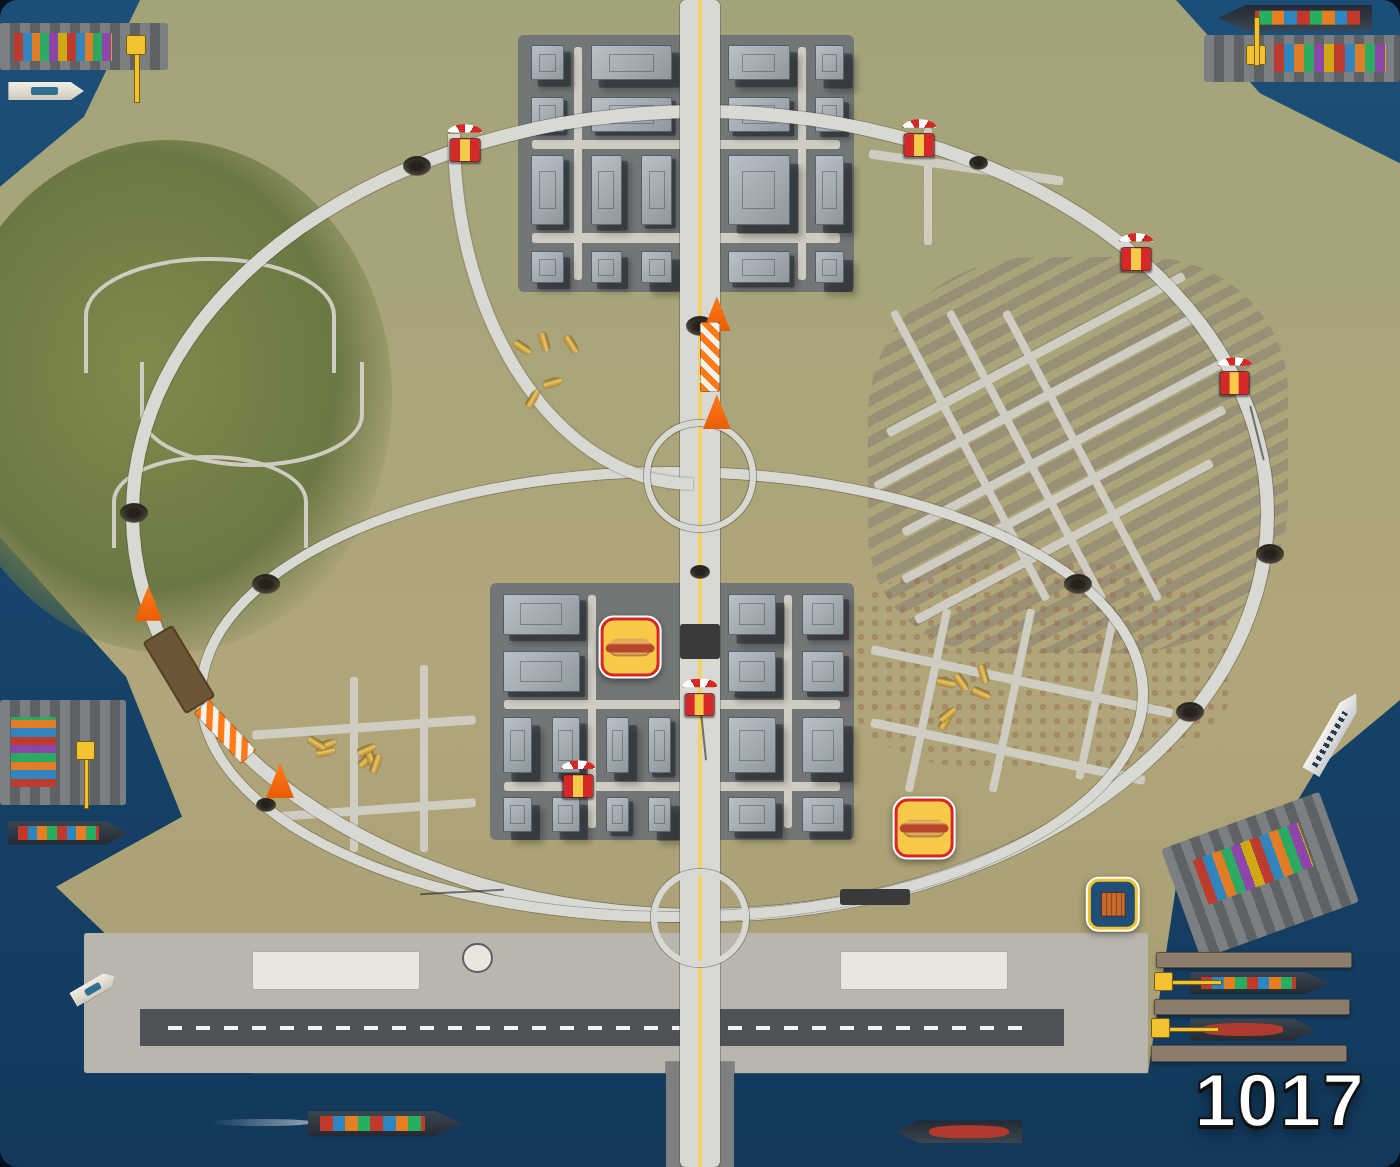
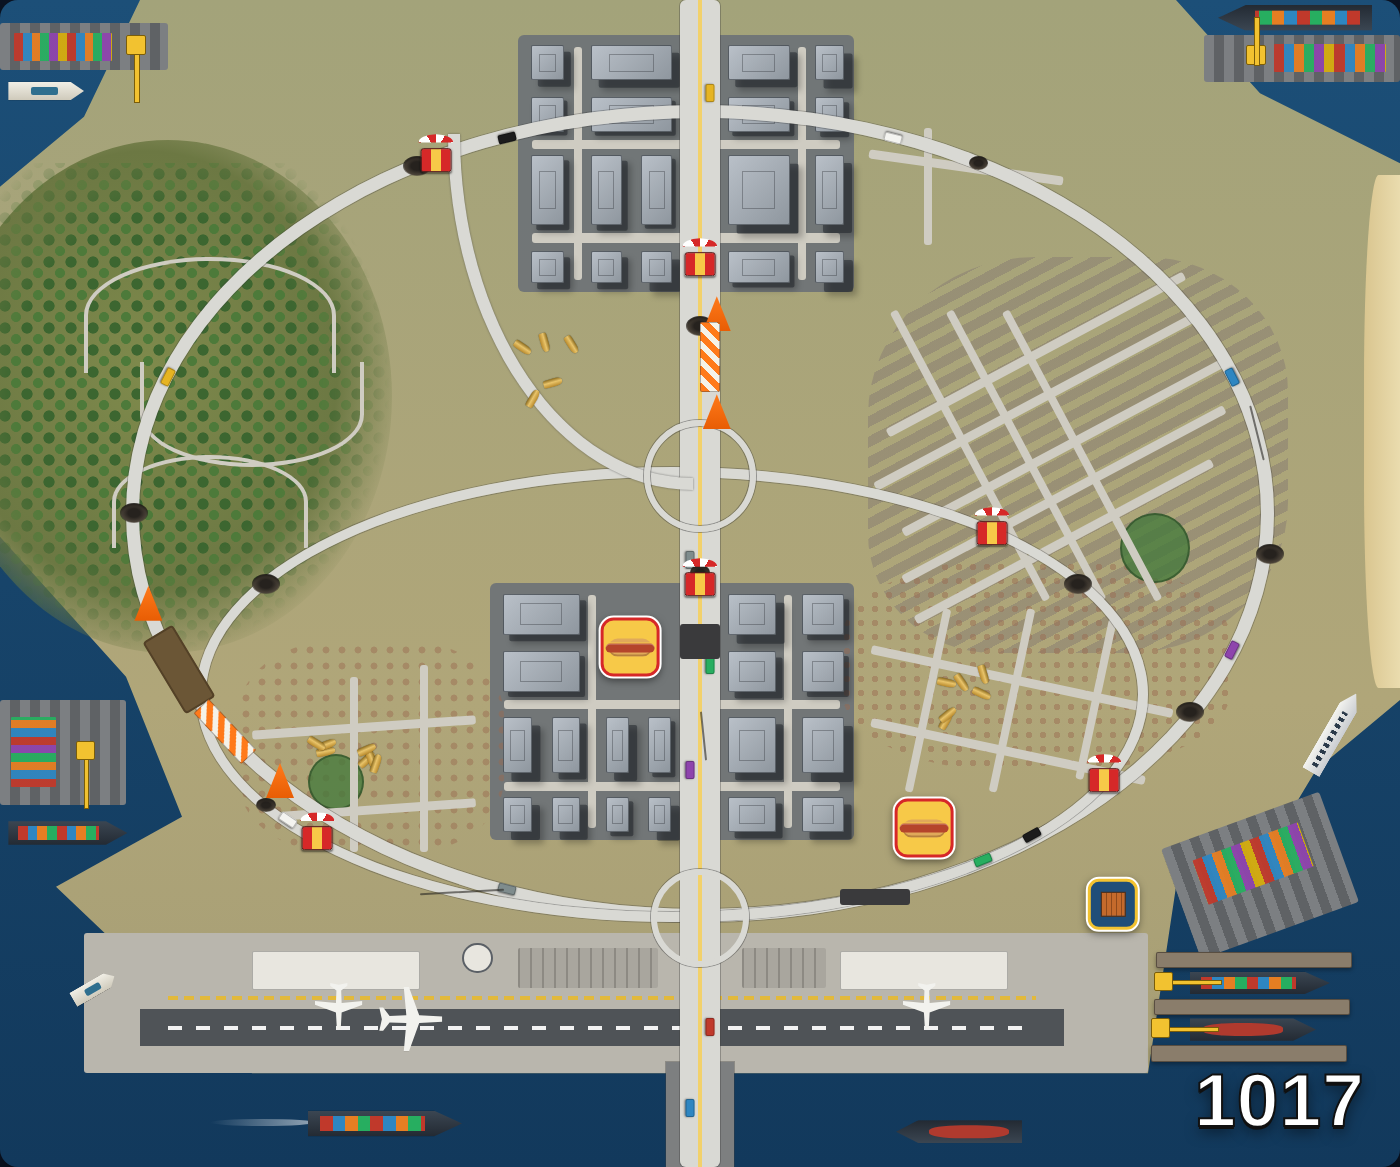
More detail on the 1017 inner city
Woods over the hill, two new parks (the east apartments and the south-west
streets), little houses in the south-west, a beach down the east coast, a
taxiway, terminal parking and three planes at the airport, and cars on the
Connector, the Perimeter and the Inner Loop.

Claude-Session: https://claude.ai/code/session_01FagBtygwPmHUod4bPZTnD1

diff --git a/1017-inner-city.html b/1017-inner-city.html
@@ -190,6 +190,62 @@
               border: 1px solid rgba(60,60,60,.35); }
   .terminal-w { left: 18%; width: 12%; }
   .terminal-e { left: 60%; width: 12%; }
+
+  /* ============================================================
+     MORE DETAIL — trees on the hill, parks, houses, the beach,
+     planes and parking at the airport, traffic on the roads.
+     ============================================================ */
+  .trees { position: absolute; left: -2%; top: 14%; width: 30%; height: 42%; z-index: 0; pointer-events: none;
+           background: radial-gradient(circle, #3c6630 34%, transparent 38%) 0 0 / 22px 22px,
+                       radial-gradient(circle, #4d7a3a 30%, transparent 34%) 11px 11px / 22px 22px;
+           -webkit-mask-image: radial-gradient(ellipse at 45% 45%, #000 45%, transparent 70%);
+                   mask-image: radial-gradient(ellipse at 45% 45%, #000 45%, transparent 70%); }   /* the wooded hill */
+  .houses-sw { position: absolute; left: 17%; top: 55%; width: 19%; height: 18%; opacity: .45;
+               background: radial-gradient(circle, #9a6a50 30%, transparent 32%) 0 0 / 16px 16px;
+               border-radius: 35%; }                                   /* little houses, south-west */
+  .park-e  { left: 80%; top: 44%; width: 5%; }                         /* a green in the apartments */
+  .park-sw { left: 22%; top: 64.6%; width: 4%; }                       /* the south-west playground */
+  .park { position: absolute; background: rgba(64,120,58,.75); border: 2px solid rgba(30,60,28,.5);
+          border-radius: 50%; aspect-ratio: 1; z-index: 0; }
+  .beach { position: absolute; left: 97.4%; top: 15%; width: 2.6%; height: 44%;
+           background: linear-gradient(90deg, #d9c58f, #eadcae); border-radius: 40% 0 0 40%; }  /* the east beach */
+
+  /* the airport: taxiway, parking, planes */
+  .taxiway { position: absolute; left: 12%; top: 85.4%; width: 62%; height: .35%; z-index: 1;
+             background: repeating-linear-gradient(90deg, #e2b93b 0 10px, transparent 10px 16px); }
+  .parking { position: absolute; top: 81.3%; height: 3.4%; z-index: 1; border-radius: 2px;
+             background: repeating-linear-gradient(90deg, #8d8a83 0 2px, #a9a69e 2px 12px); }
+  .parking-w { left: 37%; width: 10%; }
+  .parking-e { left: 53%; width: 6%; }
+  .plane { position: absolute; width: 3.4%; aspect-ratio: 1; z-index: 3; background: #f2f2ee;
+           clip-path: polygon(46% 0, 54% 0, 56% 36%, 100% 52%, 100% 60%, 56% 56%, 55% 82%, 68% 92%, 68% 98%,
+                              50% 94%, 32% 98%, 32% 92%, 45% 82%, 44% 56%, 0 60%, 0 52%, 44% 36%);
+           filter: drop-shadow(0 1px 1px rgba(0,0,0,.4)); }
+  .plane-1 { left: 22.5%; top: 84.2%; transform: rotate(180deg); }   /* at the west terminal */
+  .plane-2 { left: 64.5%; top: 84.2%; transform: rotate(180deg); }   /* at the east terminal */
+  .plane-3 { left: 27%;   top: 84.6%; width: 4.6%; transform: rotate(90deg); }   /* rolling down the runway */
+
+  /* traffic */
+  .car { position: absolute; width: 1.3%; aspect-ratio: 2; z-index: 4; border-radius: 2px;
+         box-shadow: 0 1px 2px rgba(0,0,0,.5), inset 0 0 0 1px rgba(0,0,0,.25); }
+  .car-1 { left: 88.0%; top: 32.3%; transform: translate(-50%, -50%) rotate(-117deg); background: #2e86c1; }   /* Perimeter */
+  .car-2 { left: 63.8%; top: 11.8%; transform: translate(-50%, -50%) rotate(-166deg); background: #f4f4f0; }   /* Perimeter */
+  .car-3 { left: 36.2%; top: 11.8%; transform: translate(-50%, -50%) rotate(166deg); background: #1c1c1c; }   /* Perimeter */
+  .car-4 { left: 12.0%; top: 32.3%; transform: translate(-50%, -50%) rotate(117deg); background: #e6b422; }   /* Perimeter */
+  .car-5 { left: 36.2%; top: 76.2%; transform: translate(-50%, -50%) rotate(14deg); background: #7f8c8d; }   /* Perimeter */
+  .car-6 { left: 70.2%; top: 73.7%; transform: translate(-50%, -50%) rotate(-22deg); background: #27ae60; }   /* Perimeter */
+  .car-7 { left: 88.0%; top: 55.7%; transform: translate(-50%, -50%) rotate(-63deg); background: #8e44ad; }   /* Perimeter */
+  .car-8 { left: 77.0%; top: 50.1%; transform: translate(-50%, -50%) rotate(-141deg); background: #c0392b; }   /* Inner Loop */
+  .car-9 { left: 19.0%; top: 50.1%; transform: translate(-50%, -50%) rotate(141deg); background: #2e86c1; }   /* Inner Loop */
+  .car-10 { left: 20.6%; top: 70.3%; transform: translate(-50%, -50%) rotate(34deg); background: #f4f4f0; }   /* Inner Loop */
+  .car-11 { left: 73.7%; top: 71.6%; transform: translate(-50%, -50%) rotate(-29deg); background: #1c1c1c; }   /* Inner Loop */
+  .car-12 { left: 50.7%; top: 8.0%; transform: translate(-50%, -50%) rotate(90deg); background: #e6b422; }   /* Connector */
+  .car-13 { left: 49.3%; top: 48.0%; transform: translate(-50%, -50%) rotate(90deg); background: #7f8c8d; }   /* Connector */
+  .car-14 { left: 50.7%; top: 57.0%; transform: translate(-50%, -50%) rotate(90deg); background: #27ae60; }   /* Connector */
+  .car-15 { left: 49.3%; top: 66.0%; transform: translate(-50%, -50%) rotate(90deg); background: #8e44ad; }   /* Connector */
+  .car-16 { left: 50.7%; top: 88.0%; transform: translate(-50%, -50%) rotate(90deg); background: #c0392b; }   /* Connector */
+  .car-17 { left: 49.3%; top: 95.0%; transform: translate(-50%, -50%) rotate(90deg); background: #2e86c1; }   /* Connector */
+
   .tower { position: absolute; left: 33%; top: 80.8%; width: 2.2%; aspect-ratio: 1;
            border-radius: 50%; background: #e8e6df; border: 2px solid #5b6066; }
 
@@ -288,12 +344,23 @@
     <div class="core core-south"></div>
     <div class="blocks"></div>
     <div class="houses"></div>
+    <div class="trees"></div>
+    <div class="houses-sw"></div>
+    <div class="park park-e"></div>
+    <div class="park park-sw"></div>
+    <div class="beach"></div>
 
     <div class="apron"></div>
     <div class="runway"></div>
     <div class="terminal terminal-w"></div>
     <div class="terminal terminal-e"></div>
     <div class="tower"></div>
+    <div class="taxiway"></div>
+    <div class="parking parking-w"></div>
+    <div class="parking parking-e"></div>
+    <div class="plane plane-1"></div>
+    <div class="plane plane-2"></div>
+    <div class="plane plane-3"></div>
     <div class="pier pier-nw"></div>
     <div class="pier pier-ne"></div>
     <div class="pier pier-w"></div>
@@ -402,6 +469,25 @@
     <div class="flyover"></div>
     <div class="interchange"></div>
     <div class="south-stack"></div>
+
+    <!-- traffic -->
+    <div class="car car-1"></div>
+    <div class="car car-2"></div>
+    <div class="car car-3"></div>
+    <div class="car car-4"></div>
+    <div class="car car-5"></div>
+    <div class="car car-6"></div>
+    <div class="car car-7"></div>
+    <div class="car car-8"></div>
+    <div class="car car-9"></div>
+    <div class="car car-10"></div>
+    <div class="car car-11"></div>
+    <div class="car car-12"></div>
+    <div class="car car-13"></div>
+    <div class="car car-14"></div>
+    <div class="car car-15"></div>
+    <div class="car car-16"></div>
+    <div class="car car-17"></div>
 
     <!-- wear and tear -->
     <div class="pothole pothole-1"></div>
